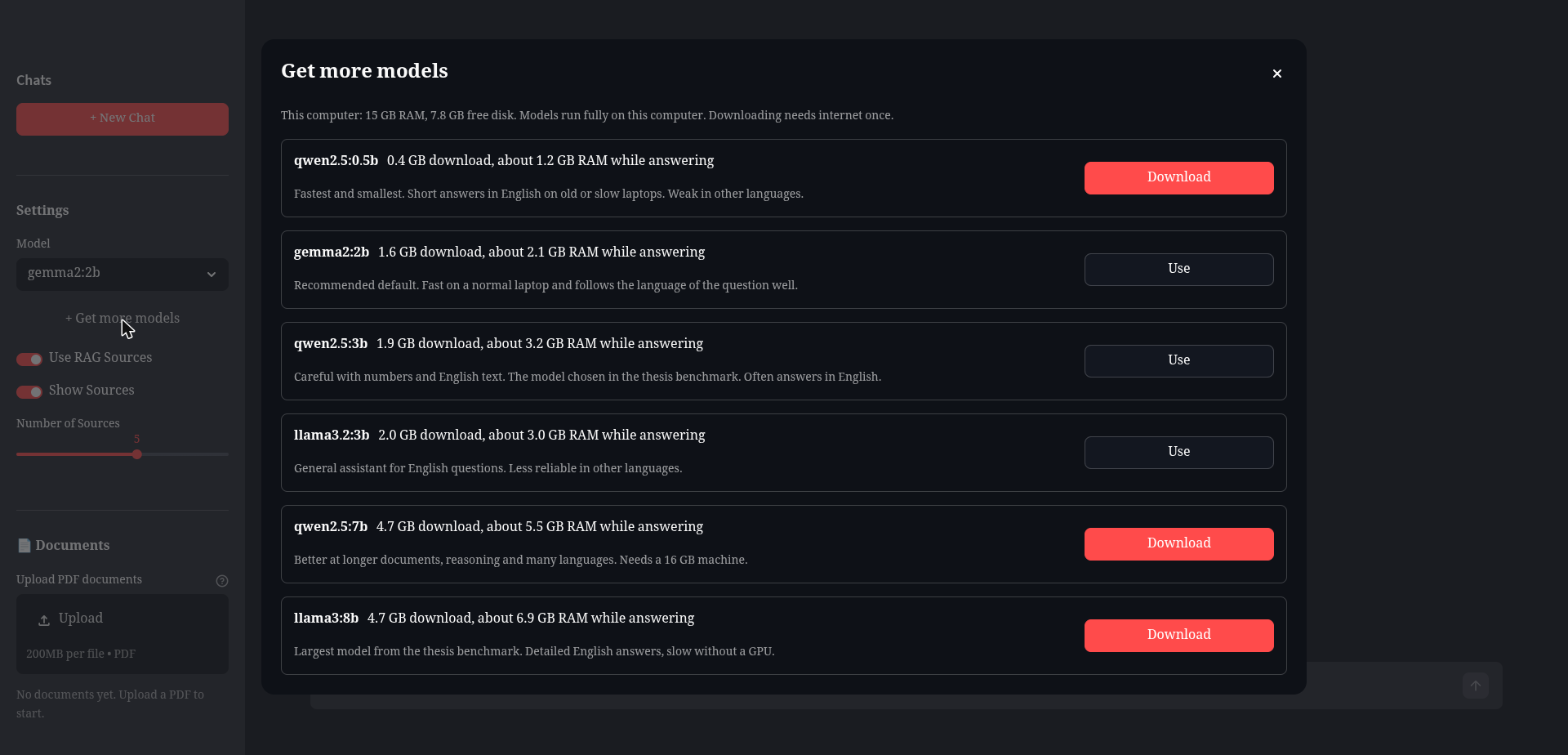
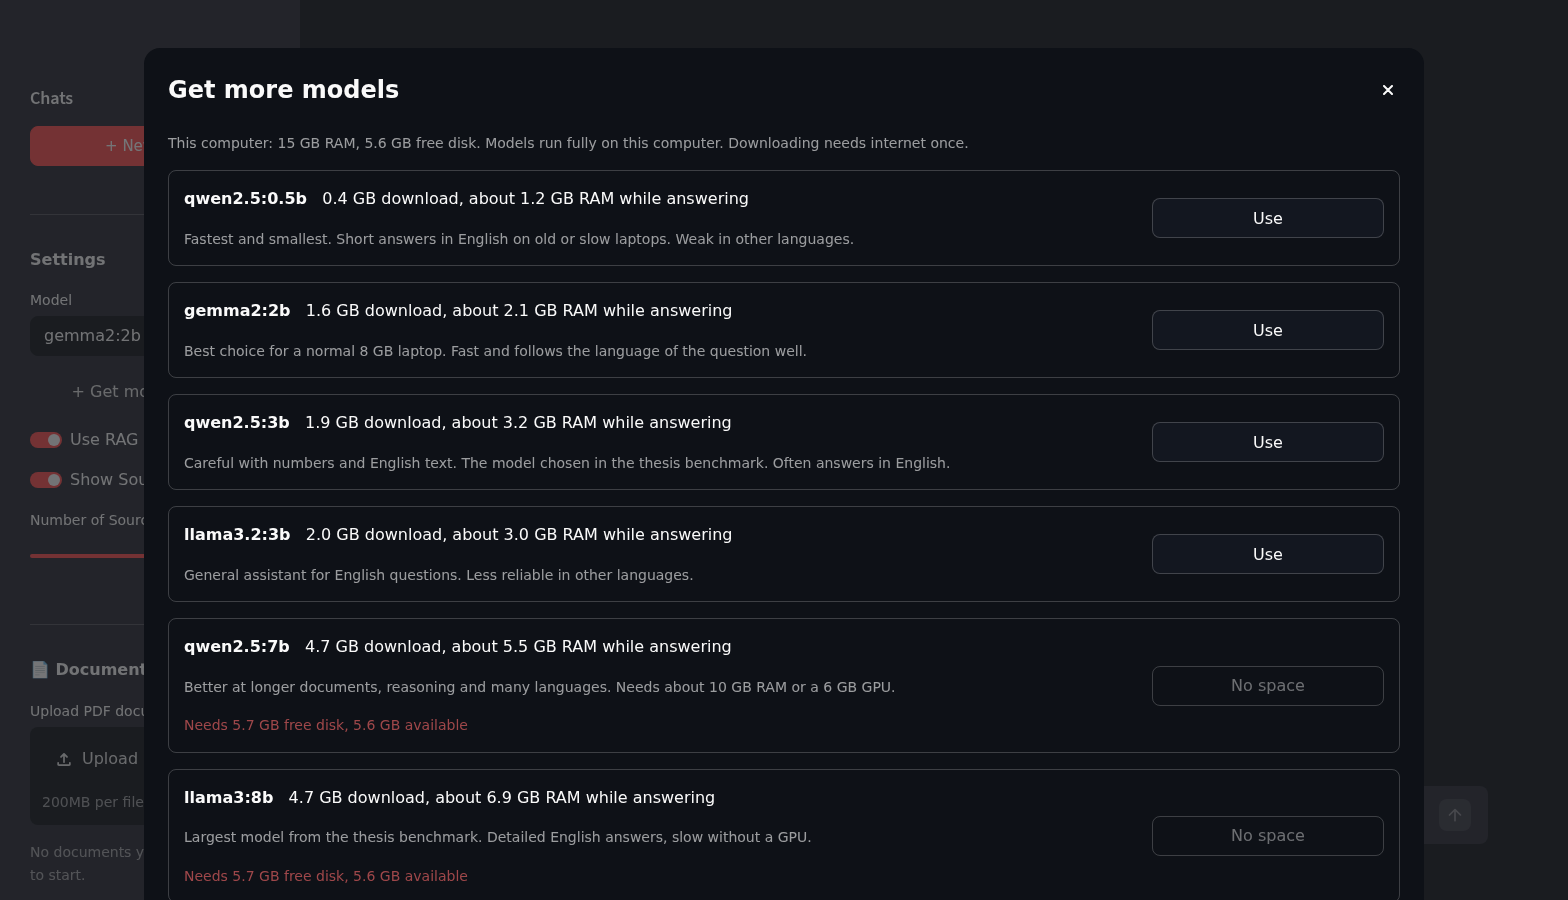
Match model notes to the hardware rules, new model picker screenshot

diff --git a/rag/model_catalog.py b/rag/model_catalog.py
@@ -31,7 +31,7 @@ CATALOG = [
     },
     {
         "name": "gemma2:2b", "size_gb": 1.6, "ram_gb": 2.1,
-        "good_for": "Recommended default. Fast on a normal laptop and follows the language of the question well.",
+        "good_for": "Best choice for a normal 8 GB laptop. Fast and follows the language of the question well.",
     },
     {
         "name": "qwen2.5:3b", "size_gb": 1.9, "ram_gb": 3.2,     # thesis: 3.22 GB
@@ -43,7 +43,7 @@ CATALOG = [
     },
     {
         "name": "qwen2.5:7b", "size_gb": 4.7, "ram_gb": 5.5,
-        "good_for": "Better at longer documents, reasoning and many languages. Needs a 16 GB machine.",
+        "good_for": "Better at longer documents, reasoning and many languages. Needs about 10 GB RAM or a 6 GB GPU.",
     },
     {
         "name": "llama3:8b", "size_gb": 4.7, "ram_gb": 6.9,      # thesis: 6.85 GB
